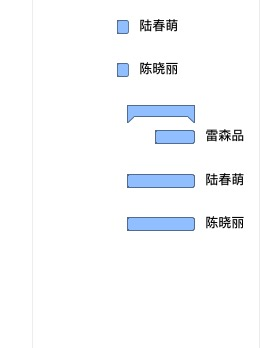
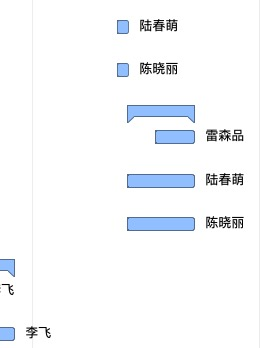
upgrage

Changed region(s): [[0.0892, 0.9195, 0.2082, 0.977], [0.0, 0.7471, 0.0595, 0.8621], [0.0, 0.9195, 0.0595, 1.0]]

diff --git a/FSCv1910/gantt.html b/FSCv1910/gantt.html
@@ -30,36 +30,36 @@
 	<h1>FSCv1910：甘特图</h1>
 		<div class="tablewrap"><table border="0" cellspacing="0" cellpadding="0">
 <tr>
-	<td><img src="include/gantt0,0.jpg?nocacheTag=1503802413" border=0/></td>
-	<td><img src="include/gantt1,0.jpg?nocacheTag=1892193322" border=0/></td>
+	<td><img src="include/gantt0,0.jpg?nocacheTag=-1027847687" border=0/></td>
+	<td><img src="include/gantt1,0.jpg?nocacheTag=1909026748" border=0/></td>
 </tr>
 <tr>
-	<td><img src="include/gantt0,1.jpg?nocacheTag=-466225478" border=0/></td>
-	<td><img src="include/gantt1,1.jpg?nocacheTag=-2080589802" border=0/></td>
+	<td><img src="include/gantt0,1.jpg?nocacheTag=-1080594730" border=0/></td>
+	<td><img src="include/gantt1,1.jpg?nocacheTag=-999332692" border=0/></td>
 </tr>
 <tr>
-	<td><img src="include/gantt0,2.jpg?nocacheTag=-1387624645" border=0/></td>
-	<td><img src="include/gantt1,2.jpg?nocacheTag=-1525850521" border=0/></td>
+	<td><img src="include/gantt0,2.jpg?nocacheTag=-1094945001" border=0/></td>
+	<td><img src="include/gantt1,2.jpg?nocacheTag=-1621357303" border=0/></td>
 </tr>
 <tr>
-	<td><img src="include/gantt0,3.jpg?nocacheTag=464402362" border=0/></td>
-	<td><img src="include/gantt1,3.jpg?nocacheTag=461530064" border=0/></td>
+	<td><img src="include/gantt0,3.jpg?nocacheTag=-1050232530" border=0/></td>
+	<td><img src="include/gantt1,3.jpg?nocacheTag=-1847906686" border=0/></td>
 </tr>
 <tr>
-	<td><img src="include/gantt0,4.jpg?nocacheTag=-2026715402" border=0/></td>
-	<td><img src="include/gantt1,4.jpg?nocacheTag=-444743308" border=0/></td>
+	<td><img src="include/gantt0,4.jpg?nocacheTag=474990726" border=0/></td>
+	<td><img src="include/gantt1,4.jpg?nocacheTag=-326973364" border=0/></td>
 </tr>
 <tr>
-	<td><img src="include/gantt0,5.jpg?nocacheTag=-1163135469" border=0/></td>
-	<td><img src="include/gantt1,5.jpg?nocacheTag=-1825498865" border=0/></td>
+	<td><img src="include/gantt0,5.jpg?nocacheTag=1363204851" border=0/></td>
+	<td><img src="include/gantt1,5.jpg?nocacheTag=-338269950" border=0/></td>
 </tr>
 <tr>
-	<td><img src="include/gantt0,6.jpg?nocacheTag=361248554" border=0/></td>
-	<td><img src="include/gantt1,6.jpg?nocacheTag=-678305348" border=0/></td>
+	<td><img src="include/gantt0,6.jpg?nocacheTag=313871787" border=0/></td>
+	<td><img src="include/gantt1,6.jpg?nocacheTag=1902901618" border=0/></td>
 </tr>
 <tr>
-	<td><img src="include/gantt0,7.jpg?nocacheTag=853087773" border=0/></td>
-	<td><img src="include/gantt1,7.jpg?nocacheTag=63978079" border=0/></td>
+	<td><img src="include/gantt0,7.jpg?nocacheTag=-1683931867" border=0/></td>
+	<td><img src="include/gantt1,7.jpg?nocacheTag=-1905146934" border=0/></td>
 </tr>
 </table>
 </div>

diff --git a/FSCv1910/task.html b/FSCv1910/task.html
@@ -1647,9 +1647,9 @@
             </tr>
 <tr class="taskTypeGroup">
 <td style="padding-left: 18px;" class="wrap">13) 领料单升级</td>
-<td>2019/9/17 上午9:00</td>
-<td>2019/9/17 下午7:00</td>
-<td>1 天</td>
+<td>2019/9/23 上午9:00</td>
+<td>2019/9/27 下午7:00</td>
+<td>1 周</td>
 <td>0%</td>
 <td></td>
 <td class="total"></td>
@@ -1663,8 +1663,8 @@
             </tr>
 <tr class="taskTypeTask">
 <td style="padding-left: 28px;" class="wrap">13.1) 领料单/明细增加字段，以及脚本</td>
-<td>2019/9/17 上午9:00</td>
-<td>2019/9/17 下午7:00</td>
+<td>2019/9/23 上午9:00</td>
+<td>2019/9/23 下午7:00</td>
 <td>1 天</td>
 <td>0%</td>
 <td></td>
@@ -1672,23 +1672,23 @@
 <td>李飞</td>
 <td></td>
 <td></td>
-<td>2019/9/17 上午9:00</td>
+<td>2019/9/23 上午9:00</td>
 <td></td>
 <td></td>
 <td></td>
             </tr>
 <tr class="taskTypeTask">
 <td style="padding-left: 28px;" class="wrap">13.2) 确认领料逻辑修改</td>
-<td>2019/9/17 上午9:00</td>
-<td>2019/9/17 下午7:00</td>
-<td>1 天</td>
+<td>2019/9/24 上午9:00</td>
+<td>2019/9/27 下午7:00</td>
+<td>4 天</td>
 <td>0%</td>
 <td></td>
 <td class="total"></td>
 <td>李飞</td>
 <td></td>
 <td></td>
-<td>2019/9/17 上午9:00</td>
+<td>2019/9/24 上午9:00</td>
 <td></td>
 <td></td>
 <td></td>

diff --git a/FSCv1910/resource.html b/FSCv1910/resource.html
@@ -704,9 +704,9 @@
 <tr class="resource Staff">
 <td style="padding-left: 20px;">李飞</td>
 <td>2019/7/22 上午9:00</td>
-<td>2019/9/17 下午7:00</td>
-<td>7 周 1 天</td>
-<td>94%</td>
+<td>2019/9/27 下午7:00</td>
+<td>7 周 4 天</td>
+<td>87%</td>
 <td></td>
             </tr>
 <tr>
@@ -783,17 +783,17 @@
             </tr>
 <tr>
 <td style="padding-left: 28px;" class="wrap taskTypeTask">领料单/明细增加字段，以及脚本</td> 
-<td>2019/9/17 上午9:00</td>
-<td>2019/9/17 下午7:00</td>
+<td>2019/9/23 上午9:00</td>
+<td>2019/9/23 下午7:00</td>
 <td>1 天</td>
 <td>0%</td>
 <td></td>
             </tr>
 <tr>
 <td style="padding-left: 28px;" class="wrap taskTypeTask">确认领料逻辑修改</td> 
-<td>2019/9/17 上午9:00</td>
-<td>2019/9/17 下午7:00</td>
-<td>1 天</td>
+<td>2019/9/24 上午9:00</td>
+<td>2019/9/27 下午7:00</td>
+<td>4 天</td>
 <td>0%</td>
 <td></td>
             </tr>

diff --git a/FSCv1910/index.html b/FSCv1910/index.html
@@ -153,9 +153,9 @@
 <tr class="resource Staff">
 <td style="padding-left: 20px;">李飞</td>
 <td>2019/7/22 上午9:00</td>
-<td>2019/9/17 下午7:00</td>
-<td>7 周 1 天</td>
-<td>94%</td>
+<td>2019/9/27 下午7:00</td>
+<td>7 周 4 天</td>
+<td>87%</td>
 <td></td>
             </tr>
 <tr class="resource Staff">
